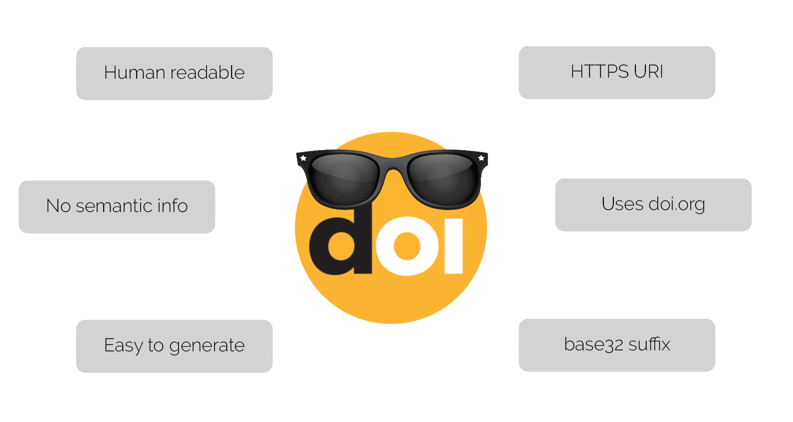
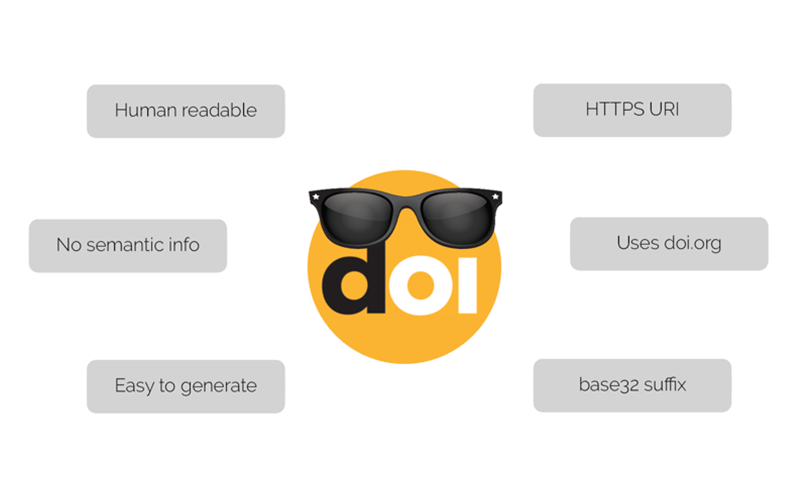
imgs

diff --git a/_posts/2016-12-15-cool-dois.md b/_posts/2016-12-15-cool-dois.md
@@ -92,6 +92,6 @@ This can be used to quickly verify a DOI, e.g. in a web form or API. The Ruby ba
 
 To answer the question raised at the beginning: a cool DOI is a DOI expressed as HTTPS URI using the doi.org proxy and using a base32-encoded suffix, for example **https://doi.org/10.5555/KVTD-VPWM**. This DOI works well in a web environment, is human readable, easy to parse and detect (e.g. in text mining), and can be generated using an algorithm that is well understood and supported.
 
-![](/assets/images/2016/12/cool-dois.png)
+![](/assets/images/2016/12/cool-dois.svg)
 
 ### References
